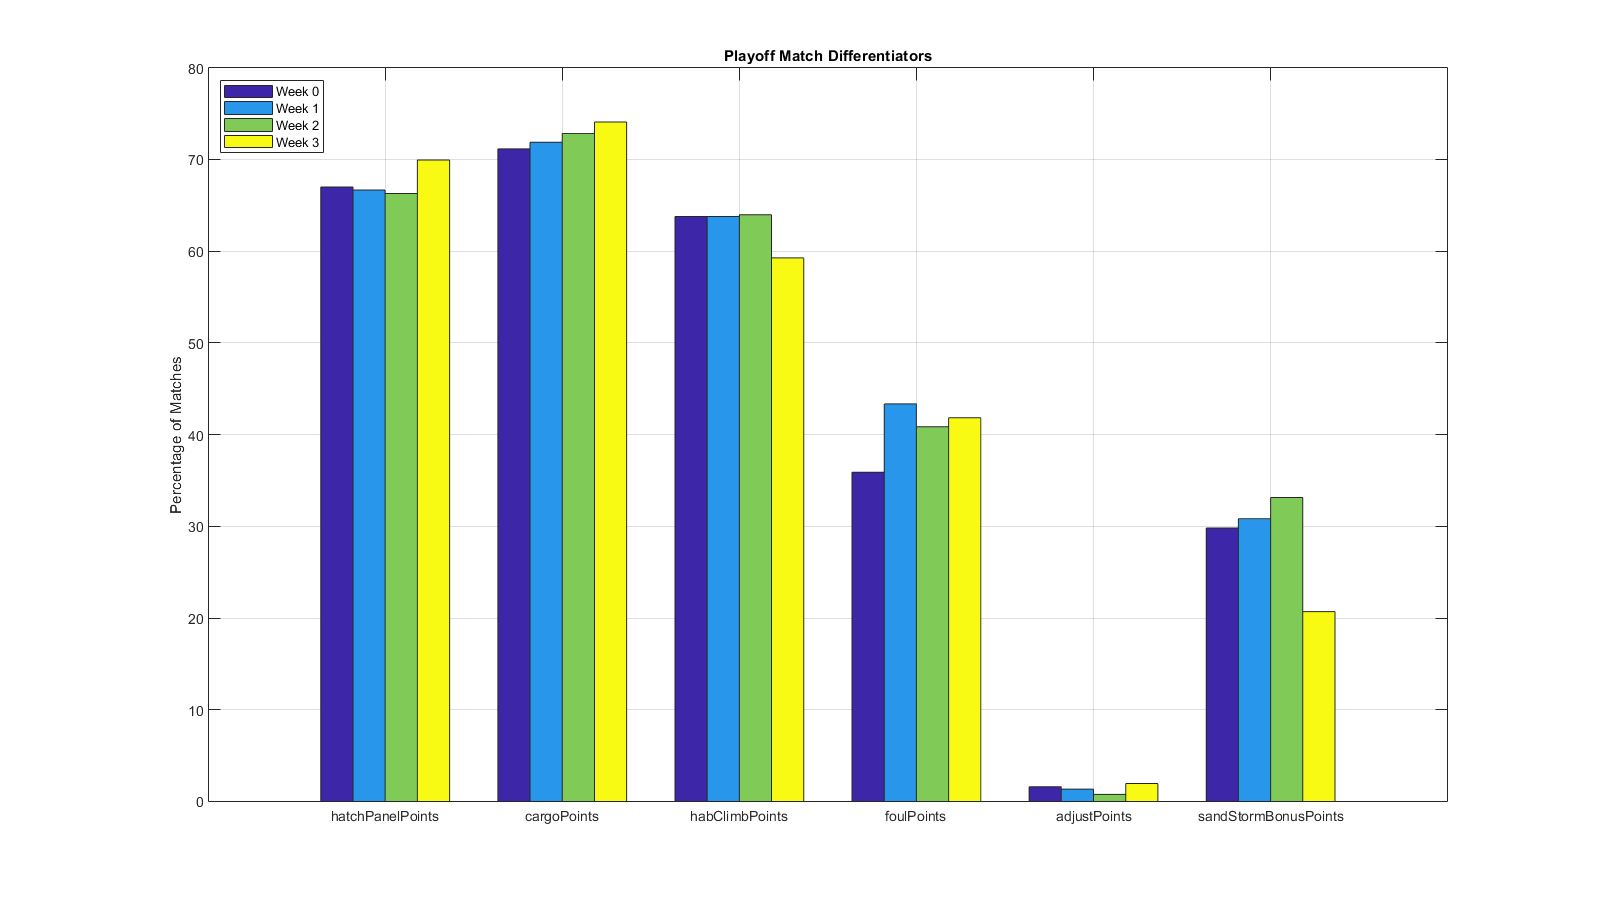
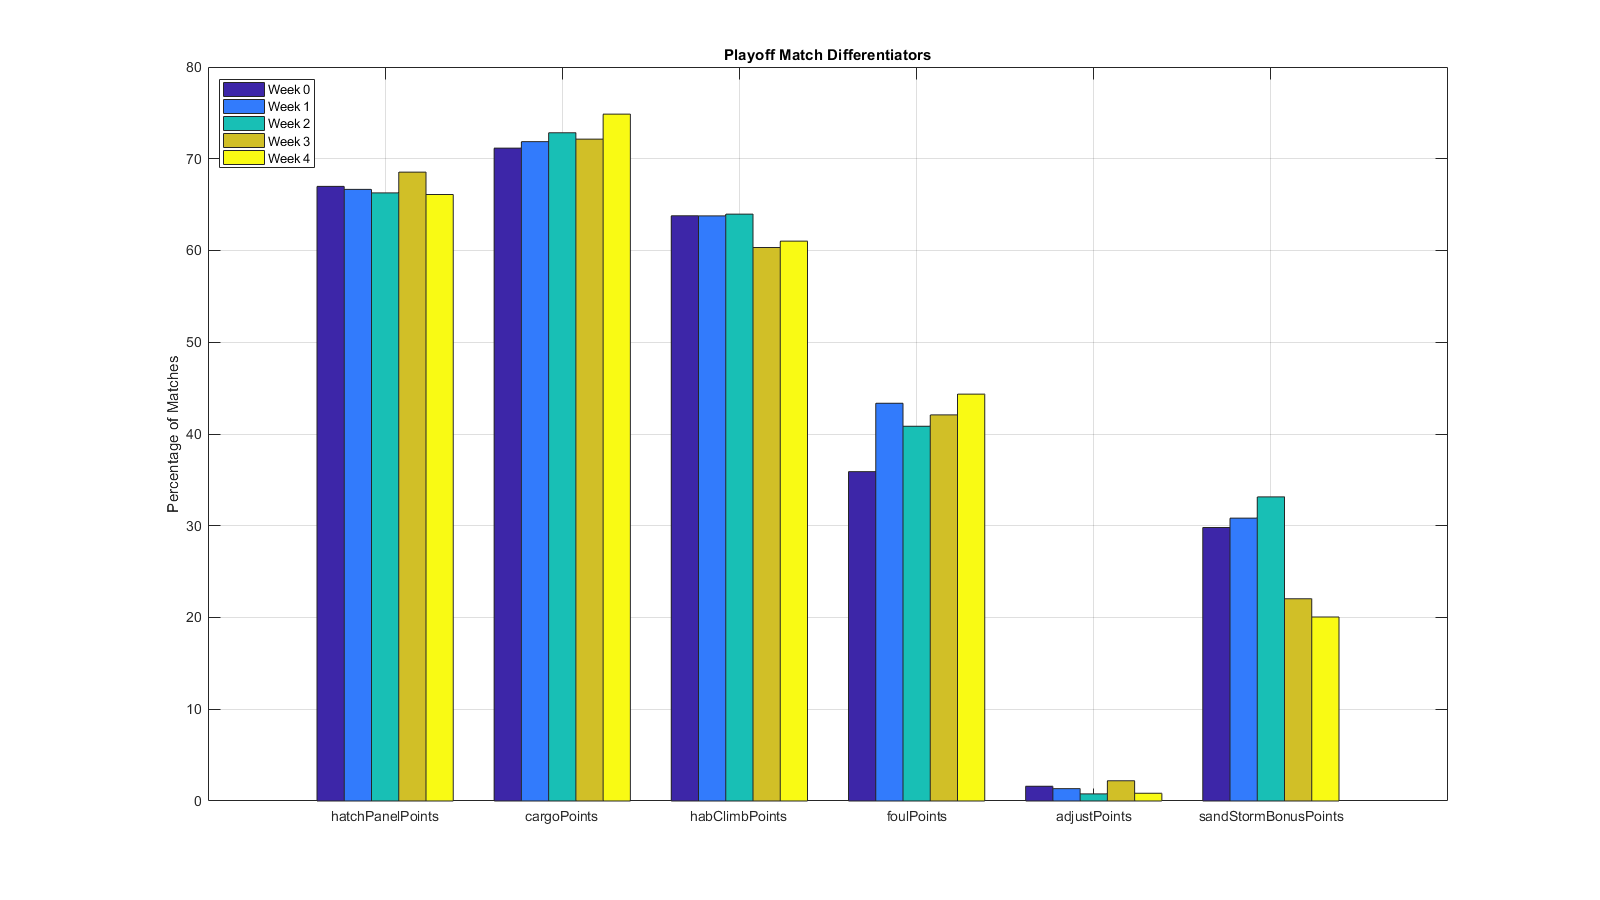
dchmp teams updated

Changed region(s): [[0.125, 0.0622, 0.8438, 0.9333], [0.0938, 0.3733, 0.125, 0.5911], [0.4688, 0.0311, 0.5625, 0.0622]]

diff --git a/TBA/2019/calc_match_differential.m b/TBA/2019/calc_match_differential.m
@@ -7,7 +7,7 @@ filter = 'f';   % playoffs only
 
 cols_to_use = 5:10;
 
-for week = 0:8
+for week = 0:4
     directory = sprintf('data/week%d', week);
     
     events = dir(sprintf('%s/*.csv', directory));
